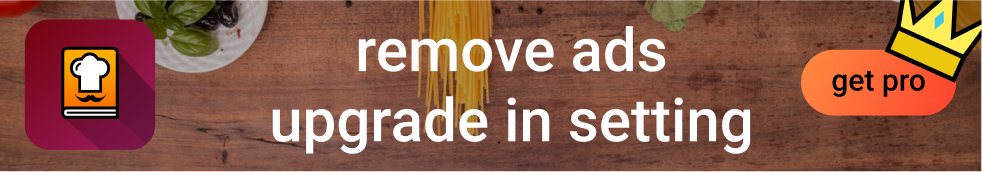
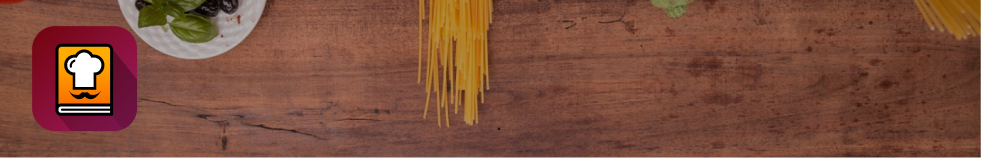
updated localization

diff --git a/lib/screens/settings_screen.dart b/lib/screens/settings_screen.dart
@@ -25,62 +25,52 @@ class Settings extends StatelessWidget {
             if (state is IsPurchased) {
               return Container();
             } else {
-              return GestureDetector(
-                  child: Container(
-                      height: 60,
-                      child: Padding(
-                        padding: const EdgeInsets.all(12.0),
-                        child: Center(
-                          child: Row(
-                            children: <Widget>[
-                              Icon(Icons.movie),
-                              SizedBox(width: 12),
-                              Text(
-                                I18n.of(context).watch_video_remove_ads,
-                                style: Theme.of(context).textTheme.subhead,
-                              ),
-                              Spacer(),
-                              state is ShowAds
-                                  ? Container()
-                                  : state is AdFreeUntil
-                                      ? Text(
-                                          "${I18n.of(context).ad_free_until}:\n${state.time.hour}:" +
-                                              (state.time.minute < 10
-                                                  ? "0${state.time.minute}"
-                                                  : "${state.time.minute}"),
-                                          textAlign: TextAlign.center,
-                                        )
-                                      : Container(),
-                            ],
-                          ),
-                        ),
-                      )),
-                  onTap: () {
-                    showDialog(
-                      context: context,
-                      builder: (context) => InfoDialog(
-                        title: I18n.of(context).video_to_remove_ads,
-                        body: I18n.of(context).video_to_remove_ads_desc,
-                        onOk: () {
-                          Navigator.pop(context);
-                          BlocProvider.of<AdManagerBloc>(context)
-                              .add(StartWatchingVideo(DateTime.now()));
-                        },
-                        okText: I18n.of(context).watch,
+              return Column(
+                children: <Widget>[
+                  Divider(),
+                  ListTile(
+                      title: Text(
+                        I18n.of(context).watch_video_remove_ads,
+                        style: Theme.of(context).textTheme.subhead,
                       ),
-                    );
-                  });
+                      leading: Icon(Icons.movie),
+                      trailing: state is ShowAds
+                          ? Container()
+                          : state is AdFreeUntil
+                              ? Text(
+                                  "${I18n.of(context).ad_free_until}:\n${state.time.hour}:" +
+                                      (state.time.minute < 10
+                                          ? "0${state.time.minute}"
+                                          : "${state.time.minute}"),
+                                  textAlign: TextAlign.center,
+                                )
+                              : null,
+                      onTap: () {
+                        showDialog(
+                          context: context,
+                          builder: (context) => InfoDialog(
+                            title: I18n.of(context).video_to_remove_ads,
+                            body: I18n.of(context).video_to_remove_ads_desc,
+                            onOk: () {
+                              Navigator.pop(context);
+                              BlocProvider.of<AdManagerBloc>(context)
+                                  .add(StartWatchingVideo(DateTime.now()));
+                            },
+                            okText: I18n.of(context).watch,
+                          ),
+                        );
+                      }),
+                  Divider(),
+                  ListTile(
+                      title: Text(I18n.of(context).purchase_pro),
+                      onTap: () {
+                        BlocProvider.of<AdManagerBloc>(context)
+                            .add(PurchaseProVersion());
+                      })
+                ],
+              );
             }
           }),
-          Ads.shouldShowAds() ? Divider() : Container(),
-          Ads.shouldShowAds()
-              ? ListTile(
-                  title: Text(I18n.of(context).purchase_pro),
-                  onTap: () {
-                    BlocProvider.of<AdManagerBloc>(context)
-                        .add(PurchaseProVersion());
-                  })
-              : Container(),
           Divider(),
           ListTile(
               title: Text(I18n.of(context).manage_nutritions),

diff --git a/lib/main.dart b/lib/main.dart
@@ -199,9 +199,8 @@ class MyApp extends StatelessWidget {
                     BlocProvider<ShoppingCartBloc>.value(
                         value: args.shoppingCartBloc),
                   ],
-                  child: _getAdPage(RecipeScreen(
-                    heroImageTag: args.heroImageTag,
-                  )),
+                  child: _getAdPage(
+                      RecipeScreen(heroImageTag: args.heroImageTag), context),
                 ),
               );
             case "/add-recipe/general-info":
@@ -248,11 +247,11 @@ class MyApp extends StatelessWidget {
                           value: args.shoppingCartBloc)
                     ],
                     child: _getAdPage(
-                      IngredientsAddScreen(
-                        modifiedRecipe: args.modifiedRecipe,
-                        editingRecipeName: args.editingRecipeName,
-                      ),
-                    )),
+                        IngredientsAddScreen(
+                          modifiedRecipe: args.modifiedRecipe,
+                          editingRecipeName: args.editingRecipeName,
+                        ),
+                        context)),
               );
 
             case "/add-recipe/steps":
@@ -300,7 +299,7 @@ class MyApp extends StatelessWidget {
                               ),
                           ),
                         ],
-                        child: _getAdPage(RecipeGridView()),
+                        child: _getAdPage(RecipeGridView(), context),
                       ));
 
             case "/vegetable-recipes-oveview":
@@ -322,7 +321,7 @@ class MyApp extends StatelessWidget {
                         ),
                     ),
                   ],
-                  child: _getAdPage(RecipeGridView()),
+                  child: _getAdPage(RecipeGridView(), context),
                 ),
               );
 
@@ -363,7 +362,7 @@ class MyApp extends StatelessWidget {
                     BlocProvider<ShoppingCartBloc>.value(
                         value: args.shoppingCartBloc)
                   ],
-                  child: _getAdPage(IngredientSearchScreen()),
+                  child: _getAdPage(IngredientSearchScreen(), context),
                 ),
               );
 
@@ -376,7 +375,7 @@ class MyApp extends StatelessWidget {
                     recipeManagerBloc:
                         BlocProvider.of<RecipeManagerBloc>(context),
                   )..add(InitializeCategoryManager()),
-                  child: _getAdPage(CategoryManager()),
+                  child: _getAdPage(CategoryManager(), context),
                 ),
               );
 
@@ -387,7 +386,7 @@ class MyApp extends StatelessWidget {
                 builder: (context) => BlocProvider<NutritionManagerBloc>(
                   create: (context) =>
                       NutritionManagerBloc()..add(LoadNutritionManager()),
-                  child: _getAdPage(NutritionManager()),
+                  child: _getAdPage(NutritionManager(), context),
                 ),
               );
 
@@ -398,7 +397,7 @@ class MyApp extends StatelessWidget {
                 builder: (context) => BlocProvider<IngredientsManagerBloc>(
                   create: (context) =>
                       IngredientsManagerBloc()..add(LoadIngredientsManager()),
-                  child: _getAdPage(IngredientsManager()),
+                  child: _getAdPage(IngredientsManager(), context),
                 ),
               );
 
@@ -445,17 +444,34 @@ class MyApp extends StatelessWidget {
     );
   }
 
-  Widget _getAdPage(Widget page) {
+  Widget _getAdPage(Widget page, BuildContext context) {
     return Ads.shouldShowAds()
         ? Column(
             children: <Widget>[
               Expanded(child: page),
               Container(
                 height: 50,
-                width: double.infinity,
-                color: Colors.brown,
-                child: Image.asset(
-                  "images/bannerAd.png",
+                child: Stack(
+                  children: <Widget>[
+                    Container(
+                      height: 50,
+                      width: double.infinity,
+                      color: Colors.brown,
+                      child: Image.asset(
+                        "images/bannerAd.png",
+                      ),
+                    ),
+                    Material(
+                      type: MaterialType.transparency,
+                      child: Center(
+                        child: Text(
+                          I18n.of(context).remove_ads_upgrade_in_settings,
+                          style: TextStyle(fontSize: 18),
+                          textAlign: TextAlign.center,
+                        ),
+                      ),
+                    ),
+                  ],
                 ),
               )
             ],

diff --git a/lib/blocs/new_recipe/nutritions/nutritions_bloc.dart b/lib/blocs/new_recipe/nutritions/nutritions_bloc.dart
@@ -2,6 +2,7 @@ import 'dart:async';
 
 import 'package:bloc/bloc.dart';
 import 'package:flutter/material.dart';
+import 'package:my_recipe_book/models/nutrition.dart';
 
 import '../../../local_storage/hive.dart';
 import '../../../local_storage/io_operations.dart' as IO;
@@ -58,7 +59,9 @@ class NutritionsBloc extends Bloc<NutritionsEvent, NutritionsState> {
         event.recipeManagerBloc.add(RMAddRecipes([newRecipe]));
       }
     } else {
-      Recipe nutritionRecipe = HiveProvider().getTmpEditingRecipe();
+      Recipe nutritionRecipe = HiveProvider().getTmpEditingRecipe().copyWith(
+            nutritions: event.nutritions,
+          );
       if (event.goBack) {
         await HiveProvider().saveTmpEditingRecipe(nutritionRecipe);
       }
